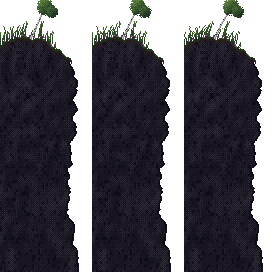
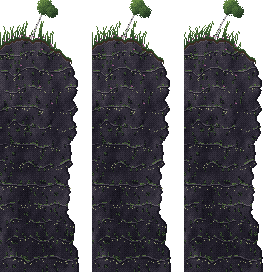
Åsen: lys og tekstur på nabbane, ingen søyle, spiss kantvariant «Z»
Nabbane i forgrunnen har kantlys, lag, sprekker, mose, lav og lyng.
Den høgre nabben glir ut av biletet ytst på hylla, så søyla der er borte.
Nytt kartteikn «Z»: overheng med spiss form, som variant av det runde
«U»; brukt på eit lite framspring vest på platået.

diff --git a/js/rpg/pikslar.js b/js/rpg/pikslar.js
@@ -398,7 +398,7 @@ window.Pikslar = (function () {
   const treCache = {};
   const treBilete = k => treCache[k] || (treCache[k] = TRE[k]());
 
-  const FAST = new Set(["+", "(", "u", "#", "t", "i", "F", "~", "^", "o", "|", "j", "h", "x", "W", "v", "w", "V", "R", "r", "I", "A", "B", "y", "K", "k", "b", "L", "T", "X", "c", "f", "z", "G", "e", "a", "n", " ", "s", "M", "-", "N", "U"]);
+  const FAST = new Set(["+", "(", "u", "#", "t", "i", "F", "~", "^", "o", "|", "j", "h", "x", "W", "v", "w", "V", "R", "r", "I", "A", "B", "y", "K", "k", "b", "L", "T", "X", "c", "f", "z", "G", "e", "a", "n", " ", "s", "M", "-", "N", "U", "Z"]);
   const ANIM = new Set(["~", "L", "T", "f", "n", "y"]);
   const VARIANT_EKSTRA = new Set(["Rt", "Rb", "Rtb"]);
   const VARIANT = new Set([".", ",", "~", "=", "_", "R", "P", "O", "g", "B", "y", '"', "o", "|", "j", "h", "x", "#", "t", "i", "F"]);
@@ -918,7 +918,7 @@ window.Pikslar = (function () {
        med lys venstre side og mørke sprekker, hyller med gras, store knausar og søkk. Nedover blir
        berget disigare (luftperspektiv), og nedst løyser det seg opp i dis, så bakgrunnslaga
        (dalen langt nede) syner gjennom. Lerretet har .ope (1 der pikselen er open) eller null. */
-  const TER = new Set(["s", "M", "-", "N", "U"]);
+  const TER = new Set(["s", "M", "-", "N", "U", "Z"]);
   const BERG = ["#1c1a2c", "#2e2a3a", "#48434a", "#645e5e", "#827a74", "#a0978a", "#bdb4a4"];   // grå gneis, skuggar mot djup blå (Narshe)
   const DIS = "#a6b4bc";
   const JORDKANT = { lys: "#a87c52", hoy: "#8a6040", mid: "#6a4630", lag: "#4a3020", mork: "#3a2418" };
@@ -1092,11 +1092,11 @@ window.Pikslar = (function () {
   // Øvste rada i stupet som ruta (tx, ty) ligg i, eller null om ruta ikkje er stup («M» eller
   // overheng «U»). Byrjar stupet med eit overheng, ligg toppen rada over (bakken som stikk ut): då
   // held berget bak fram i same høgd som berget ved sida.
-  const erStup = c => c === "M" || c === "U";
+  const erStup = c => c === "M" || c === "U" || c === "Z";   // Z: overheng med spiss form (kantvariant)
   function stupTopp(felt, tx, ty) {
     if (tx < 0 || tx >= felt.w || !erStup(felt.c(tx, ty))) return null;
     let t0 = ty; while (t0 > 0 && erStup(felt.c(tx, t0 - 1))) t0--;
-    return felt.c(tx, t0) === "U" ? t0 - 1 : t0;
+    return felt.c(tx, t0) === "U" || felt.c(tx, t0) === "Z" ? t0 - 1 : t0;
   }
   // Djupna i berget (1 ute på ein knaus, 0 inne i ei renne) ved kartpikselen X, Yr pikslar ned i stupet.
   // Store, runde knausar som lener seg litt, med mindre søyler oppå.
@@ -1118,7 +1118,7 @@ window.Pikslar = (function () {
     const t0 = stupTopp(felt, tx, ty), virt = !erStup(felt.c(tx, t0));   // virt: toppen er bakken over eit overheng
     let t1 = ty; while (t1 < felt.h - 1 && erStup(felt.c(tx, t1 + 1))) t1++;
     const H = (t1 - t0 + 1) * S, idx = ty - t0, nedst = felt.c(tx, t1 + 1) === "-" || t1 === felt.h - 1;
-    const erV = felt.c(tx, ty) === "U";
+    const erV = felt.c(tx, ty) === "U" || felt.c(tx, ty) === "Z";
     const c = lerret(S), g = c.getContext("2d"), bilde = g.createImageData(S, S), ut = new Uint32Array(bilde.data.buffer);
     const ope = new Uint8Array(S * S);
     const gras = grasData(tx, t0 - 1, felt.golv);
@@ -1151,14 +1151,17 @@ window.Pikslar = (function () {
     // Overhenget som ein spiss: graset heng lengst ned midt på (spissen), og berget under finst berre
     // mot endane (der hylla eller neset heng fast); under spissen er det luft rett ned.
     let ua = tx, ub = tx;
-    if (virt) { const ru = t0 + 1; while (ua > 0 && felt.c(ua - 1, ru) === "U") ua--; while (ub < felt.w - 1 && felt.c(ub + 1, ru) === "U") ub++; }
+    // «U» er rund (graset buktar seg ut), «Z» er spiss (graset heng i ein V mot spissen, luft rett under).
+    const ovTeikn = virt ? felt.c(tx, t0 + 1) : "U", spiss = ovTeikn === "Z";
+    if (virt) { const ru = t0 + 1; while (ua > 0 && felt.c(ua - 1, ru) === ovTeikn) ua--; while (ub < felt.w - 1 && felt.c(ub + 1, ru) === ovTeikn) ub++; }
     const midt = (ua + ub + 1) * S / 2, halv = Math.max(8, (ub - ua + 1) * S / 2);
     const skraVariant = felt.skra || "a";
     for (let x = 0; x < S; x++) {
       const X = tx * S + x;
       const r = Math.min(1, Math.abs(X + 0.5 - midt) / halv);             // 0 i spissen, 1 ved endane
       // Graset heng over kanten i ein rund boge (buktar seg ut), lengst midt på.
-      const tunge = Math.round(2 + Math.sqrt(Math.max(0, 1 - r * r)) * 7 + (vstoy(X / 4, t0, 548) - 0.5) * 2);
+      const tunge = spiss ? Math.round(2 + Math.pow(1 - r, 1.6) * 10 + (vstoy(X / 4, t0, 548) - 0.5) * 2)
+        : Math.round(2 + Math.sqrt(Math.max(0, 1 - r * r)) * 7 + (vstoy(X / 4, t0, 548) - 0.5) * 2);
       let lepp = 2 + Math.floor(vstoy(X / 9, t0 * 5, 521) * 4.99) + Math.floor(vstoy(X / 3, t0 * 5 + 2, 535) * 2.5);
       if (bakkeV) lepp = Math.max(lepp, boge(x + 0.5, 10, 14));
       if (bakkeH) lepp = Math.max(lepp, boge(S - x - 0.5, 10, 14));
@@ -1173,7 +1176,7 @@ window.Pikslar = (function () {
       // Overhenget: tynn kant av torv og berg, ujamn underside.
       const kant = virt ? tunge + 4 : 4 + Math.floor(vstoy(X / 5, t0 * 7, 543) * 4) + (hash(X, t0, 544) > 0.8 ? 1 : 0);
       // Berget under er lite: det veks berre mot endane, og i ein rund boge (ikkje store blokker).
-      const veggBotn = virt ? Math.min(botn, S + kant + Math.round(Math.pow(r, 2.2) * (H - S - kant) * 0.7) + Math.round((vstoy(X / 5, t0, 549) - 0.5) * 4)) : H + 99;
+      const veggBotn = virt ? Math.min(botn, S + kant + Math.round(spiss ? Math.pow(r, 1.4) * (H - S - kant) : Math.pow(r, 2.2) * (H - S - kant) * 0.7) + Math.round((vstoy(X / 5, t0, 549) - 0.5) * 4)) : H + 99;
       const bakV = kantV ? boge(x + 0.5, 8, 18) : 0, bakH = kantH ? boge(S - x - 0.5, 8, 18) : 0;
       for (let y = 0; y < S; y++) {
         const i = y * S + x, Yr = idx * S + y;

diff --git a/tools/sjekk-spel.js b/tools/sjekk-spel.js
@@ -86,7 +86,7 @@ for (const [id, k] of Object.entries(D.KART)) if (k.stemning && !(D.STEMNINGAR |
     if (R.some(r => r.includes("-")) && !(k.parallakse || []).length) feil.push(`${id}: luftfliser («-») utan parallakse`);
     for (let y = 0; y < h; y++) for (let x = 0; x < w; x++) {
       if (c(x, y) === "N" && !(k.kameraOpp && (y === 0 || c(x, y - 1) === "-"))) feil.push(`${id}: kanten «N» på ${x},${y} skal ha luft over seg (eller stå i rad 0) på eit kart med kameraOpp`);
-      if (c(x, y) === "U" && (y === 0 || !"M-".includes(c(x, y + 1)) || /[MU\-s#]/.test(c(x, y - 1)))) feil.push(`${id}: overhenget «U» på ${x},${y} skal ha bakke over seg og stup eller luft under`);
+      if ("UZ".includes(c(x, y)) && (y === 0 || !"M-".includes(c(x, y + 1)) || /[MUZ\-s#]/.test(c(x, y - 1)))) feil.push(`${id}: overhenget «${c(x, y)}» på ${x},${y} skal ha bakke over seg og stup eller luft under`);
       if (c(x, y) === "M" && y < h - 1 && !"M-".includes(c(x, y + 1))) feil.push(`${id}: under stupet på ${x},${y} er «${c(x, y + 1)}» (skal vere stup eller luft)`);
       if (c(x, y) === "-" && y < h - 1 && !(c(x, y + 1) === "-" || (k.kameraOpp && c(x, y + 1) === "N" && R.slice(0, y + 1).every(r => r[x] === "-")))) feil.push(`${id}: under lufta på ${x},${y} er «${c(x, y + 1)}»`);
       if (c(x, y) === "/") {
@@ -120,7 +120,7 @@ for (const [id, k] of Object.entries(D.KART)) if (k.stemning && !(D.STEMNINGAR |
       const stad = `${id} ${namn}[${i}]`, f = stiP.join(__dirname, "..", "bilete", "spel", "parallakse", l.bilete + ".png");
       if (!fsP.existsSync(f)) { feil.push(`${stad}: bilete/spel/parallakse/${l.bilete}.png finst ikkje (køyr tools/pikselkunst/utsikt.py)`); return; }
       const fk = Array.isArray(l.faktor) ? l.faktor : [l.faktor, l.faktor];
-      if (!fk.every(v => typeof v === "number" && (namn === "parallakse" ? v >= 0 && v <= 2 : v > 1))) feil.push(`${stad}: faktor ${l.faktor} (bak kartet 0 til 2, 1 er fast, i forgrunnen over 1)`);
+      if (!fk.every(v => typeof v === "number" && (namn === "parallakse" ? v >= 0 && v <= 2 : v >= 1)) || (namn === "forgrunn" && !fk.some(v => v > 1))) feil.push(`${stad}: faktor ${l.faktor} (bak kartet 0 til 2, 1 er fast, i forgrunnen over 1)`);
       if (l.variant && !(liste || []).some(m => m !== l && m.variant === (k.variant || "fast")) && l.variant !== (k.variant || "fast")) feil.push(`${stad}: varianten ${l.variant}, men kartet har ingen lag i varianten ${k.variant || "fast"}`);
       if (!Number.isFinite(l.x) || !Number.isFinite(l.y) || (l.ved && !(Array.isArray(l.ved) && l.ved.length === 2))) feil.push(`${stad}: treng x, y og ved: [kx, ky]`);
       const iBruk = m => !m.opp && (!m.variant || m.variant === (k.variant || "fast"));   // laga under kartet i varianten kartet brukar
@@ -128,7 +128,7 @@ for (const [id, k] of Object.entries(D.KART)) if (k.stemning && !(D.STEMNINGAR |
       // Det bakaste laget: dekkjer det skjermen frå toppen av stupet og ned, der lufta kan syne?
       const { w: bw, h: bh } = pngStorleik(f), ved = l.ved || [0, 0];
       let luftRad = R.findIndex((r, y) => y > 0 && r.includes("-") && [...r].some((ch, x) => ch === "-" && "M-".includes(c(x, y - 1)) && !R.slice(0, y).every(rr => rr[x] === "-")));   // lufta nedst, ikkje den øvst
-      for (let x = 0; x < w; x++) for (let y = 0; y < h; y++) if ("MU".includes(c(x, y)) && c(x, y + 1) === "-") luftRad = Math.min(luftRad, y);   // nedste stupflis løyser seg opp
+      for (let x = 0; x < w; x++) for (let y = 0; y < h; y++) if ("MUZ".includes(c(x, y)) && c(x, y + 1) === "-") luftRad = Math.min(luftRad, y);   // nedste stupflis løyser seg opp
       if (luftRad < 0) return;
       for (let ky = 0; ky <= Math.max(0, h - VH) * S; ky++) {
         const topp = luftRad * S - ky; if (topp >= VH * S) continue;

diff --git a/js/rpg/data.js b/js/rpg/data.js
@@ -431,12 +431,13 @@ window.RPGData = (function () {
         // Bergnabbar framfor utsikta, med gras og lyng som vaiar (og ei lita bjørk til venstre). Berget går
         // langt ned, så dei står på noko i alle kameraposisjonar: venstre syner ytst på hylla, høgre på neset.
         { bilete: "nabb", faktor: 1.25, ved: [6.5, 17.5], x: -18, y: 118, rammer: 3, rekkje: [0, 1, 2, 1], takt: 40 },
-        { bilete: "nabb-h", faktor: 1.25, ved: [8, 12.5], x: 246, y: 120, rammer: 3, rekkje: [0, 1, 2, 1], takt: 46 },
+        { bilete: "nabb-h", faktor: [2, 1], ved: [8, 12.5], x: 250, y: 120, rammer: 3, rekkje: [0, 1, 2, 1], takt: 46 },
       ],
       /* Nedst er kanten ujamn: platået stikk ut i eit nes (x 21 til 23) og går inn i ei vik (x 25 til 27),
          og under midten (x 4 til 17) går ein skrent med rampe (11,14) ned til ei hylle eitt nivå lenger
          nede (rad 15 og 16) før det stuper. Høgre side av hylla stikk djupare ned og smalnar av til éi
-         flis ytst (16,19), med luft på sidene. Under neset og hylla er det overheng («U»): ei tynn kant
+         flis ytst (16,19), med luft på sidene. Vest på platået stikk eit lite, spisst framspring ut
+         (1,14 og 2,14) med overhenget «Z» (spiss kantvariant) under. Under neset og hylla er det overheng («U»): ei tynn kant
          med skugge under og berget trekt inn bak. Stupet frå platået er tre rader høgt, og lufta under har lia og dalen.
          Åsen: toppen er lengst oppe på midten (to kollar med skrent «s» under seg, rad 0 og 1), og
          kanten der bakken fell bort («N») går eit steg ned mot sidene, der det er luft («-») i rad 0.
@@ -458,8 +459,8 @@ window.RPGData = (function () {
         "#..YYYY....\"...o..5========2",
         "##.YYYY....................#",
         "#.L.....t..........\".....MMM",
-        "MMMMsssssss/ssssssMMM.\".MMMM",
-        "MMMM....\"...o.....MMMUUUMMMM",
+        "M..Msssssss/ssssssMMM.\".MMMM",
+        "MZZM....\"...o.....MMMUUUMMMM",
         "MMMMt....\"......t.MMMMMMM---",
         "----UUUUUUUUU.....----------",
         "----MMMMMMMMMUU.\".----------",

diff --git a/js/rpg/motor.js b/js/rpg/motor.js
@@ -549,7 +549,7 @@ window.Motor = (function () {
     if (!k) { nedPx = 0; return; }
     // ruter: ["x,y", …] er utløysarrutene (neset og spissen av hylla på Åsen): berre der glir kameraet ned.
     const ved = k.ruter ? k.ruter.includes(Math.round(malX) + "," + Math.round(malY)) && Math.abs(malY - Math.round(malY)) < 0.01 && Math.abs(malX - Math.round(malX)) < 0.01
-      : k.kant ? ("MU".includes((kart.fliser[Math.round(malY) + 1] || [])[Math.round(malX)] || "x") && Math.abs(malY - Math.round(malY)) < 0.01) : malY >= k.fra - 0.001;
+      : k.kant ? ("MUZ".includes((kart.fliser[Math.round(malY) + 1] || [])[Math.round(malX)] || "x") && Math.abs(malY - Math.round(malY)) < 0.01) : malY >= k.fra - 0.001;
     const maal = ved ? Math.round(k.rader * S) : 0, fart = Math.max(1, k.fart || 1);
     nedPx += Math.sign(maal - nedPx) * Math.min(Math.abs(maal - nedPx), fart * Math.min(n, 8));
   }
@@ -1244,7 +1244,7 @@ window.Motor = (function () {
       // Luft: ingen bakke, bakgrunnslaga syner gjennom.
       if (c === LUFT) { luftRute(sx, sy, null); continue; }
       // Stupet: bergveggen som fell ned mot utsikta, og løyser seg opp i dis nedst (Pikslar.stup).
-      if (c === "M" || c === "U") { const st = Pikslar.stup(terrengfelt(), x, y); g.drawImage(st, sx, sy); if (st.ope) luftRute(sx, sy, st.ope); continue; }
+      if (c === "M" || c === "U" || c === "Z") { const st = Pikslar.stup(terrengfelt(), x, y); g.drawImage(st, sx, sy); if (st.ope) luftRute(sx, sy, st.ope); continue; }
       // Veggar med vegg eller dør under seg er sidevegger: dei blir teikna ovanfrå.
       const under = y + 1 < kart.h ? kart.fliser[y + 1][x] : null;
       const topp = "XcG".includes(c) && (under === null || "XcGE".includes(under));

diff --git a/tools/pikselkunst/utsikt.py b/tools/pikselkunst/utsikt.py
@@ -653,48 +653,69 @@ def gras_ramme(w, h, vind):
 
 NABB_W, NABB_H = 92, 272
 
-def nabb_ramme(vind, bjork, s):
-    """Ein bergnabb nær kameraet som kjem inn frå sida av biletet: mørk, skugga berg (lys kant oppe til
-    venstre, mørk kant mot høgre), med jord, gras og lyng på toppen. Berget går langt ned, så nabben
-    aldri heng i lufta: der toppen syner, når berget heilt ned til kanten av biletet. vind flyttar
-    toppane av stråa (og kruna på bjørka) 0, 1 eller 2 pikslar."""
+def nabb_ramme(vind, bjork, s, speil=False):
+    """Ein bergnabb nær kameraet som kjem inn frå sida av biletet. Berget har form og tekstur: kantlys på
+    toppen og på sida som vender mot ljoset (oppe til venstre), lag og hyller med lys overkant og skugge
+    under, sprekker med mose, lav og lyng, og mellomtonar, men er mørkare enn midtplanet så det ligg
+    framfor. Jord, gras og lyng på toppen. Berget går langt ned, så nabben aldri heng i lufta: der toppen
+    syner, når berget ned til kanten av biletet. vind flyttar toppane av stråa (og kruna på bjørka)
+    0, 1 eller 2 pikslar. speil: nabben kjem inn frå høgre (forma spegla, ljoset framleis frå venstre)."""
     w, h = NABB_W, NABB_H
     L_ = L(w, h)
-    topp = lambda x: 40 + ((x - 24) / 44) ** 2 * 18 + (M.fbm(x / 6, 1, s, 3) - 0.5) * 8
-    hogre = lambda y: 58 + 8 * math.sin(y / 34 + s) + (M.fbm(y / 9, 2, s + 1, 3) - 0.5) * 10 + min(18, y / 10)
-    berg = M.rampe("#0e0c16", "#1a1722", "#2a2632", "#3c3742", "#56505a")
+    sx = (lambda u: w - 1 - u) if speil else (lambda u: u)                   # frå lokal u (0 ved biletkanten) til x
+    topp = lambda u: 40 + ((u - 24) / 44) ** 2 * 18 + (M.fbm(u / 6, 1, s, 3) - 0.5) * 8
+    inner = lambda y: 58 + 8 * math.sin(y / 34 + s) + (M.fbm(y / 9, 2, s + 1, 3) - 0.5) * 10 + min(18, y / 10)
+    berg = M.rampe("#15131c", "#221f2a", "#322e3a", "#46414c", "#5e5862", "#7a7276", "#968c88")
+    mose, lav = M.rampe("#2a3a26", "#3c5232", "#56703e"), M.rampe("#7a8060", "#a0a47a")
     for y in range(h):
-        hx = hogre(y)
-        for x in range(w):
-            t = topp(x)
-            if y < t or x > hx: continue
-            kant_opp = y - t < 2; kant_h = hx - x < 2
-            v = 0.3 + (M.fbm(x / 7 + y / 30, y / 12, s + 2, 3) - 0.5) * 0.5 + (0.35 if kant_opp else 0) - (0.3 if kant_h else 0)
-            if M.h(x // 2, y // 3, s + 3) > 0.9: v -= 0.25                                     # sprekker
-            L_.p(x, y, M.tone(berg, v, x, y))
-    gras = M.rampe("#0e1a10", "#16261a", "#203622", "#2e4a2a", "#40602f", "#567436")
-    for x in range(w):                                                    # jord og gras som ligg på toppen
-        t = int(topp(x))
-        if x > hogre(t) + 2: continue
-        for k in range(4): L_.p(x, t - 1 + k, M.tone(gras, 0.25 + (2 - k) * 0.12, x, t + k) if k < 2 else "#2a1c16")
+        iu = inner(y)
+        for u in range(w):
+            t = topp(u)
+            if y < t or u > iu: continue
+            x = sx(u)
+            ned = y - t
+            v = 0.4 + (M.fbm(u / 7 + y / 30, y / 12, s + 2, 3) - 0.5) * 0.42 + (M.fbm(u / 18, y / 40, s + 14, 2) - 0.5) * 0.3
+            lagy = (y + int(M.fbm(u / 14, y / 40, s + 8, 2) * 14)) % 19              # lag og hyller i berget, ujamne
+            heil = M.fbm(u / 9, y / 19, s + 15, 2) > 0.4
+            if lagy == 0 and heil: v += 0.32
+            elif lagy == 1 and heil: v -= 0.24
+            if ned < 3: v += 0.5 - ned * 0.12                                     # kantlys på toppen
+            inn = iu - u
+            if speil and inn < 3: v += 0.4                                        # sida mot ljoset (venstre)
+            elif not speil and inn < 2: v -= 0.22                                 # sida bort frå ljoset
+            v -= min(0.15, y / 900)
+            spr = M.h(u // 2, y // 4, s + 3) > 0.9
+            if spr: v -= 0.28
+            c = M.tone(berg, v, x, y)
+            if lagy == 18 and heil and M.h(u // 2, y // 19, s + 9) > 0.45: c = M.tone(mose, 0.3 + M.h(u, y, s + 10), x, y)   # mose på hylla
+            elif spr and M.h(u, y, s + 11) > 0.6: c = M.tone(mose, 0.2, x, y)
+            elif lagy in (2, 3, 4) and M.h(u, y, s + 12) > 0.93: c = M.tone(lav, M.h(u, y, s + 13), x, y)   # lav
+            L_.p(x, y, c)
+    gras = M.rampe("#14221a", "#1e3222", "#2a4428", "#3a5a30", "#4e7038", "#66883e")
+    for u in range(w):                                                    # jord og gras som ligg på toppen
+        t = int(topp(u))
+        if u > inner(t) + 2: continue
+        for k in range(4): L_.p(sx(u), t - 1 + k, M.tone(gras, 0.3 + (2 - k) * 0.14, u, t + k) if k < 2 else "#3a2a20")
     for i in range(46):                                                   # strå som vaiar
-        x0 = M.h(i, 1, s + 4) * (hogre(40) - 4); y0 = topp(x0)
+        u0 = M.h(i, 1, s + 4) * (inner(40) - 4); y0 = topp(u0)
         lengd = 6 + M.h(i, 2, s + 4) * 14
         lut = (M.h(i, 3, s + 4) - 0.4) * 0.6
         for k in range(int(lengd)):
             t = k / lengd
-            x = x0 + lut * k * t + round(vind * t * t * (0.6 + lengd / 30)); y = y0 - k
-            L_.p(x, y, M.tone(gras, 0.3 + t * 0.6, int(x), int(y)))
-    for i in range(14):                                                   # lyng
-        x = M.h(i, 1, s + 5) * (hogre(40) - 6); y = topp(x) - 1 - M.h(i, 2, s + 5) * 3
-        L_.p(x, y, "#7a4a6e"); L_.p(x + 1, y, "#9a5c86"); L_.p(x, y - 1, "#5a3a54")
+            x = sx(u0 + lut * k * t) + round(vind * t * t * (0.6 + lengd / 30)); y = y0 - k
+            L_.p(x, y, M.tone(gras, 0.32 + t * 0.62, int(x), int(y)))
+    for i in range(18):                                                   # lyng på toppen og i sprekkene
+        u = M.h(i, 1, s + 5) * (inner(40) - 6); y = topp(u) - 1 - M.h(i, 2, s + 5) * 3
+        if i > 11: y = topp(u) + 10 + M.h(i, 3, s + 5) * 60
+        x = sx(u)
+        L_.p(x, y, "#8a5278"); L_.p(x + 1, y, "#a86a92"); L_.p(x, y - 1, "#5e3c58")
     if bjork:                                                             # ei lita bjørk som lener seg ut over stupet
-        bx, by = 30, int(topp(30))
+        bu, by = 30, int(topp(30))
         for k in range(30):
-            x = bx + k * 0.45 + (vind * (k / 30) ** 2 if k > 18 else 0); y = by - k
-            L_.p(x, y, "#c8c4bc" if k % 5 else "#2a2630"); L_.p(x + 1, y, "#8a8690")
-        krone(L_, bx + 15 + vind, by - 32, 8, M.rampe("#16261a", "#22381f", "#324e2a", "#466636", "#5e7c40"), s + 6)
-        krone(L_, bx + 22 + vind, by - 27, 6, M.rampe("#16261a", "#22381f", "#324e2a", "#466636"), s + 7)
+            x = sx(bu + k * 0.45) + (vind * (k / 30) ** 2 if k > 18 else 0); y = by - k
+            L_.p(x, y, "#d8d4cc" if k % 5 else "#2a2630"); L_.p(x + (-1 if speil else 1), y, "#9a96a0")
+        krone(L_, sx(bu + 15) + vind, by - 32, 8, M.rampe("#1a2c1e", "#283e24", "#3a5630", "#4e6e3a", "#688a44"), s + 6)
+        krone(L_, sx(bu + 22) + vind, by - 27, 6, M.rampe("#1a2c1e", "#283e24", "#3a5630", "#4e6e3a"), s + 7)
     return L_.im
 
 
@@ -706,10 +727,9 @@ def nabb():
 
 
 def nabb_h():
-    """Bergnabben til høgre: berre gras, lyng og stein, spegla så han kjem inn frå høgre side."""
+    """Bergnabben til høgre: gras, lyng og stein, inn frå høgre side, med kantlys på sida mot ljoset."""
     ark = L(NABB_W * GRAS_RAMMER, NABB_H)
-    for f in range(GRAS_RAMMER):
-        ark.im.alpha_composite(nabb_ramme(f, False, 641).transpose(Image.FLIP_LEFT_RIGHT), (f * NABB_W, 0))
+    for f in range(GRAS_RAMMER): ark.im.alpha_composite(nabb_ramme(f, False, 641, speil=True), (f * NABB_W, 0))
     return ark.im
 
 

diff --git a/js/rpg/README.md b/js/rpg/README.md
@@ -136,7 +136,7 @@ Lyset etterliknar Super Nintendo og Final Fantasy VI. Det meste av lyset er teik
 ### Parallakse og terreng
 Åsen er ein ås med høgd, som klippene over Narshe i Final Fantasy VI og toppen av pyramiden i A Link to the Past: kartet er delt i nivå med bakkekantar, og nedst fell åsen bratt ned mot utsikta over Hovdebygda, som er eigne bakgrunnslag som flyttar seg saktare enn kartet.
 
-- **Fliser:** `s` er ein skrent (bakkekanten mellom to nivå, sett framanfrå: graskledd skråning med jord og bergnabbar, slagskugge på graset under). Han flatar ut der han møter open mark eller ei rampe. `/` er ei rampe: stien gjennom skrenten, med trinn (ein kan gå der). `M` er stupet: bergveggen nedst, som løyser seg opp i dis i den nedste rada, eller (med `stupFast`) endar i ein ujamn, open botn over ura øvst i lia. `U` er eit overheng under bakke som stikk lengst ut (neset, hylla): ei tynn kant av torv og berg med skugge under, og berget bak trekt inn, i same høgd som stupet ved sida. `-` er luft: ingen bakke, ikkje gangbar, og bakgrunnen syner gjennom. Under eit stup er det meir stup eller luft, og under luft er det luft (`sjekk-spel.js` sjekkar det). Teikninga er `Pikslar.skrent`, `Pikslar.underSkrent`, `Pikslar.rampe` og `Pikslar.stup`.
+- **Fliser:** `s` er ein skrent (bakkekanten mellom to nivå, sett framanfrå: graskledd skråning med jord og bergnabbar, slagskugge på graset under). Han flatar ut der han møter open mark eller ei rampe. `/` er ei rampe: stien gjennom skrenten, med trinn (ein kan gå der). `M` er stupet: bergveggen nedst, som løyser seg opp i dis i den nedste rada, eller (med `stupFast`) endar i ein ujamn, open botn over ura øvst i lia. `U` er eit overheng under bakke som stikk lengst ut (neset, hylla): graset heng over i ein rund boge, ei tynn kant av torv og berg med skugge under, og berget bak trekt inn, i same høgd som stupet ved sida. `Z` er same overhenget med spiss form (kantvariant for variasjon): graset heng i ein V mot spissen, med luft rett under spissen og berg berre mot endane. Skriv `Z` i staden for `U` under eit framspring for å velje han (på Åsen: det vesle framspringet vest på platået, 1,15 og 2,15). `-` er luft: ingen bakke, ikkje gangbar, og bakgrunnen syner gjennom. Under eit stup er det meir stup eller luft, og under luft er det luft (`sjekk-spel.js` sjekkar det). Teikninga er `Pikslar.skrent`, `Pikslar.underSkrent`, `Pikslar.rampe` og `Pikslar.stup`.
 - **Bakgrunnslag** (`parallakse` på kartet): `[{ bilete, faktor, ved: [kx, ky], x, y }, …]`, det fjernaste først. `bilete` er namnet på fila i `bilete/spel/parallakse/` (laga med `tools/pikselkunst/utsikt.py`). `x` og `y` er der øvre venstre hjørne står på skjermen (pikslar) når kameraet står med øvre venstre flis på `ved`, og laget flyttar seg `faktor` (eit tal eller `[fx, fy]`) så langt som kartet. Posisjonen blir runda til heile pikslar for seg, og han er ein monoton funksjon av kameraet (som òg står på heile pikslar og går i tikk), så ingenting ristar fram og attende. `luftfarge` fyller skjermen under laga. Laga blir berre teikna innanfor kartet.
 - **Fast lag og variantar:** eit lag med faktor 1 står fast i terrenget (lia under stupet på Åsen). Eit lag med `variant: "namn"` blir berre teikna når kartet har `variant: "namn"` (standard «fast»). Åsen har `variant: "fast"` (lia som fast lag); `variant: "dal"` gir ei kortare li (`li-kort`) og dalbotnen med Hovdebygda (`dal-under`, faktor `[1, 1.8]`), som stig fram nedanfrå raskare enn kartet når kameraet glir ned. Sjå den med `skjermbilete.py namn kart=asen m=1 x=12 y=13 variant=dal`.
 - **Animerte lag:** `rammer: n` (rammene side om side i biletet), `rekkje` og `takt` (tikk per steg), og `drift: n` (laget glir éin piksel mot høgre per n tikk og går rundt). Graset på bergnabbane i forgrunnen på Åsen vaiar i vinden (`[0, 1, 2, 1]`, 40 tikk per steg), og fuglane over dalen slår med vengene og driv bortover.

diff --git a/tools/pikselkunst/ARBEIDSLOGG.md b/tools/pikselkunst/ARBEIDSLOGG.md
@@ -1363,3 +1363,21 @@ same måte, uansett kven som tek over.
 - **Vurdert:** `forhand/skjerm/r42-oversyn.png`: øvst (toppen), ved kanten på platået, på neset og ytst på
   hylla (med kameraet glidd ned). Nabbane rammar inn utsikta i hjørna og dekkjer ikkje Ivar eller spissen.
 - **Står att:** Ytst på hylla er den høgre nabben ein høg, mørk pilar langs høgre kant.
+
+## Runde 43: lys og tekstur på nabbane, ingen søyle til høgre, og spiss kantvariant
+
+- **Oppdrag:** Brukaren: meir lys og tekstur på nabbane, fjern søyla til høgre, og la den spisse forma
+  neset hadde i runde 40 bli ein kantvariant for variasjon ved andre klipper og fjellhyller.
+- **Gjort:**
+  - `nabb_ramme` i `utsikt.py`: kantlys på toppen og på sida mot ljoset (den høgre nabben er teikna
+    spegla, men med ljoset framleis frå venstre), ujamne lag og hyller med lys overkant og skugge under,
+    sprekker, mose på hyllene, lav og lyng, og mellomtonar; framleis mørkare enn midtplanet.
+  - Den høgre nabben har faktor `[2, 1]`: på neset står han nede i hjørnet, men ytst på hylla er han ute
+    av biletet, så den mørke søyla langs høgre kant er borte. Ingen andre kameraposisjonar får han.
+  - Nytt kartteikn `Z`: overheng med spiss form (graset heng i ein V mot spissen, luft rett under, berg
+    mot endane), medan `U` er rund. `Pikslar.stup` vel forma etter teiknet i overhengsrada. Brukt i eit
+    lite framspring vest på platået (bakke på 1,14 og 2,14, `Z` under); neset er framleis rundt.
+    `sjekk-spel.js` sjekkar `Z` som `U`, og forgrunnslag kan ha faktor 1 i éi retning.
+- **Vurdert:** `forhand/skjerm/r43-oversyn.png` (neset med nabben, ytst på hylla utan søyle, det spisse
+  framspringet og hylla) og `r43-naer.png` (nærbilete av framspringet og nabben).
+- **Står att:** Nabbane er framleis enkle former; dei kunne fått fleire steinblokker.

diff --git a/.claude/skills/pikselkunst/SKILL.md b/.claude/skills/pikselkunst/SKILL.md
@@ -167,7 +167,8 @@ Kjelda er alltid ei `.pix`-fil i `tools/pikselkunst/kjelder/` (formatet står
     `M` stup (bergveggen nedst, `Pikslar.stup`, løyser seg opp i dis i den nedste rada) og `-` luft
     (ingen bakke, ikkje gangbar, bakgrunnen syner). Under stup er det stup eller luft. Skrenten flatar
     ut der han møter open mark eller ei rampe, så ein rampe er ein kleiv i bakkekanten. `U` er overheng under bakke som
-    stikk ut (tynn kant, skugge, berget trekt inn bak). `N` er kanten
+    stikk ut (rund grasboge, tynn kant, skugge, berget trekt inn bak), og `Z` same med spiss form
+    (V mot spissen, luft rett under): kantvariant for variasjon ved andre klipper og fjellhyller. `N` er kanten
     øvst der bakken fell bort (`Pikslar.nordkant`, i rad 0 eller under luft på kart med `kameraOpp`;
     kanten bøyer ned mot sida der det er luft, så toppen kan vere høgast på midten).
   - Bakgrunnslaga og forgrunnen: `python tools/pikselkunst/utsikt.py` (skriptet er kjelda) skriv

diff --git a/tools/pikselkunst/STILGUIDE.md b/tools/pikselkunst/STILGUIDE.md
@@ -295,6 +295,8 @@ landskap langt nede som flyttar seg saktare enn kartet.
   dalsida møtest utan skøyt.
 - Djupn nedover (etter Octopath Traveler): det som er langt nede, er uskarpt (pikslane dobla), disig
   og lysare, og svake lysstrålar fell skrått ned gjennom disen.
+- Bergnabbane i forgrunnen har form: kantlys på toppen og på sida mot ljoset, ujamne lag og hyller med lys
+  overkant, sprekker med mose, lav og lyng, og mellomtonar, men er mørkare enn midtplanet.
 - Forgrunnen over stupet står alltid på noko: bergnabbar som kjem inn frå sida av biletet, med gras, lyng
   og ei lita bjørk på toppen, og berg som går så langt ned at det når kanten av biletet i alle
   kameraposisjonar. Aldri gras som heng fritt i lufta.
